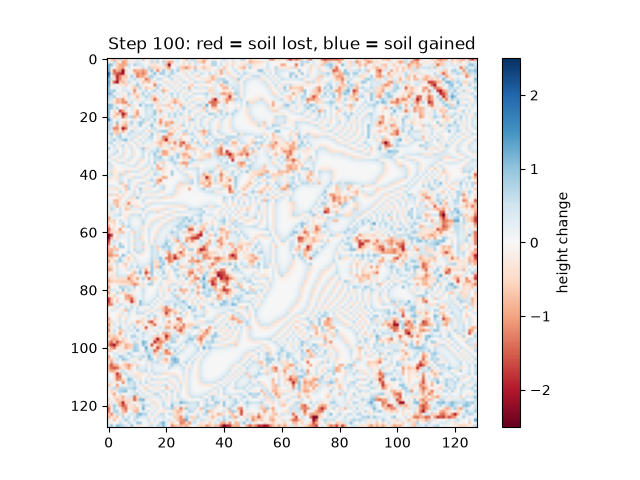
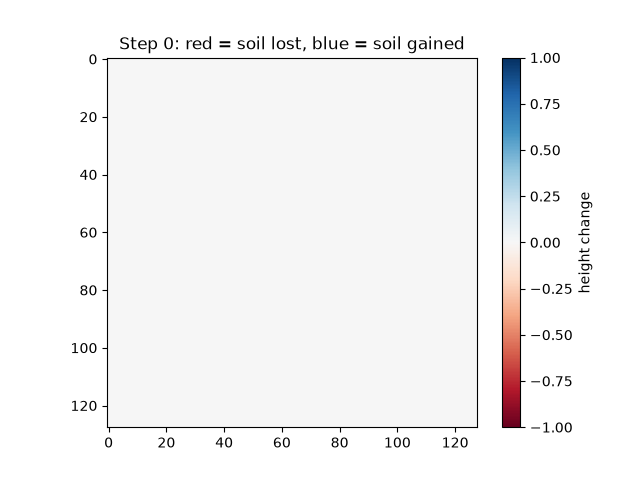
Removed Unused Texture Files and Changed them with 1k JPGs for best preformance.

diff --git a/config.py b/config.py
@@ -15,9 +15,9 @@ MAPS = {
 #   'texture' the map's own texture PNG from MAPS (generated maps still use 'blend')
 TERRAIN_LOOK = 'blend'
 TERRAIN_TEXTURES = {
-    'grass_tex': "textures/Grass002_2K-PNG/Grass002_2K-PNG_Color.png",
-    'rock_tex': "textures/Rock050_2K-PNG/Rock050_2K-PNG_Color.png",
-    'snow_tex': "textures/Snow010A_2K-PNG/Snow010A_2K-PNG_Color.png",
+    'grass_tex': "assets/textures/Grass002_1K-JPG_Color.jpg",
+    'rock_tex': "assets/textures/Rock050_1K-JPG_Color.jpg",
+    'snow_tex': "assets/textures/Snow010A_1K-JPG_Color.jpg",
 }
 GENERATED_COLOR = (0.45, 0.62, 0.38)   # used only if the blend textures can't be found, 0-1 RGB
 

diff --git a/main.py b/main.py
@@ -24,6 +24,7 @@ from menu import MainMenu
 from sensors import SensorReader
 from simulation import Simulation
 from TerrainHandler import FastTerrain
+from procedural_noise import create_heightmap
 from terrain_shader import terrain_shader
 from ui import ControlPanel, hud_text
 from water import RiverSystem
@@ -402,6 +403,5 @@ def update():
             showing_original=showing_original, sensor_lines=sensor_lines(),
             likelihood_progress=None if likelihood_job is None
             else (likelihood_job.done_runs, likelihood_job.total_runs))
-
 
 app.run()
